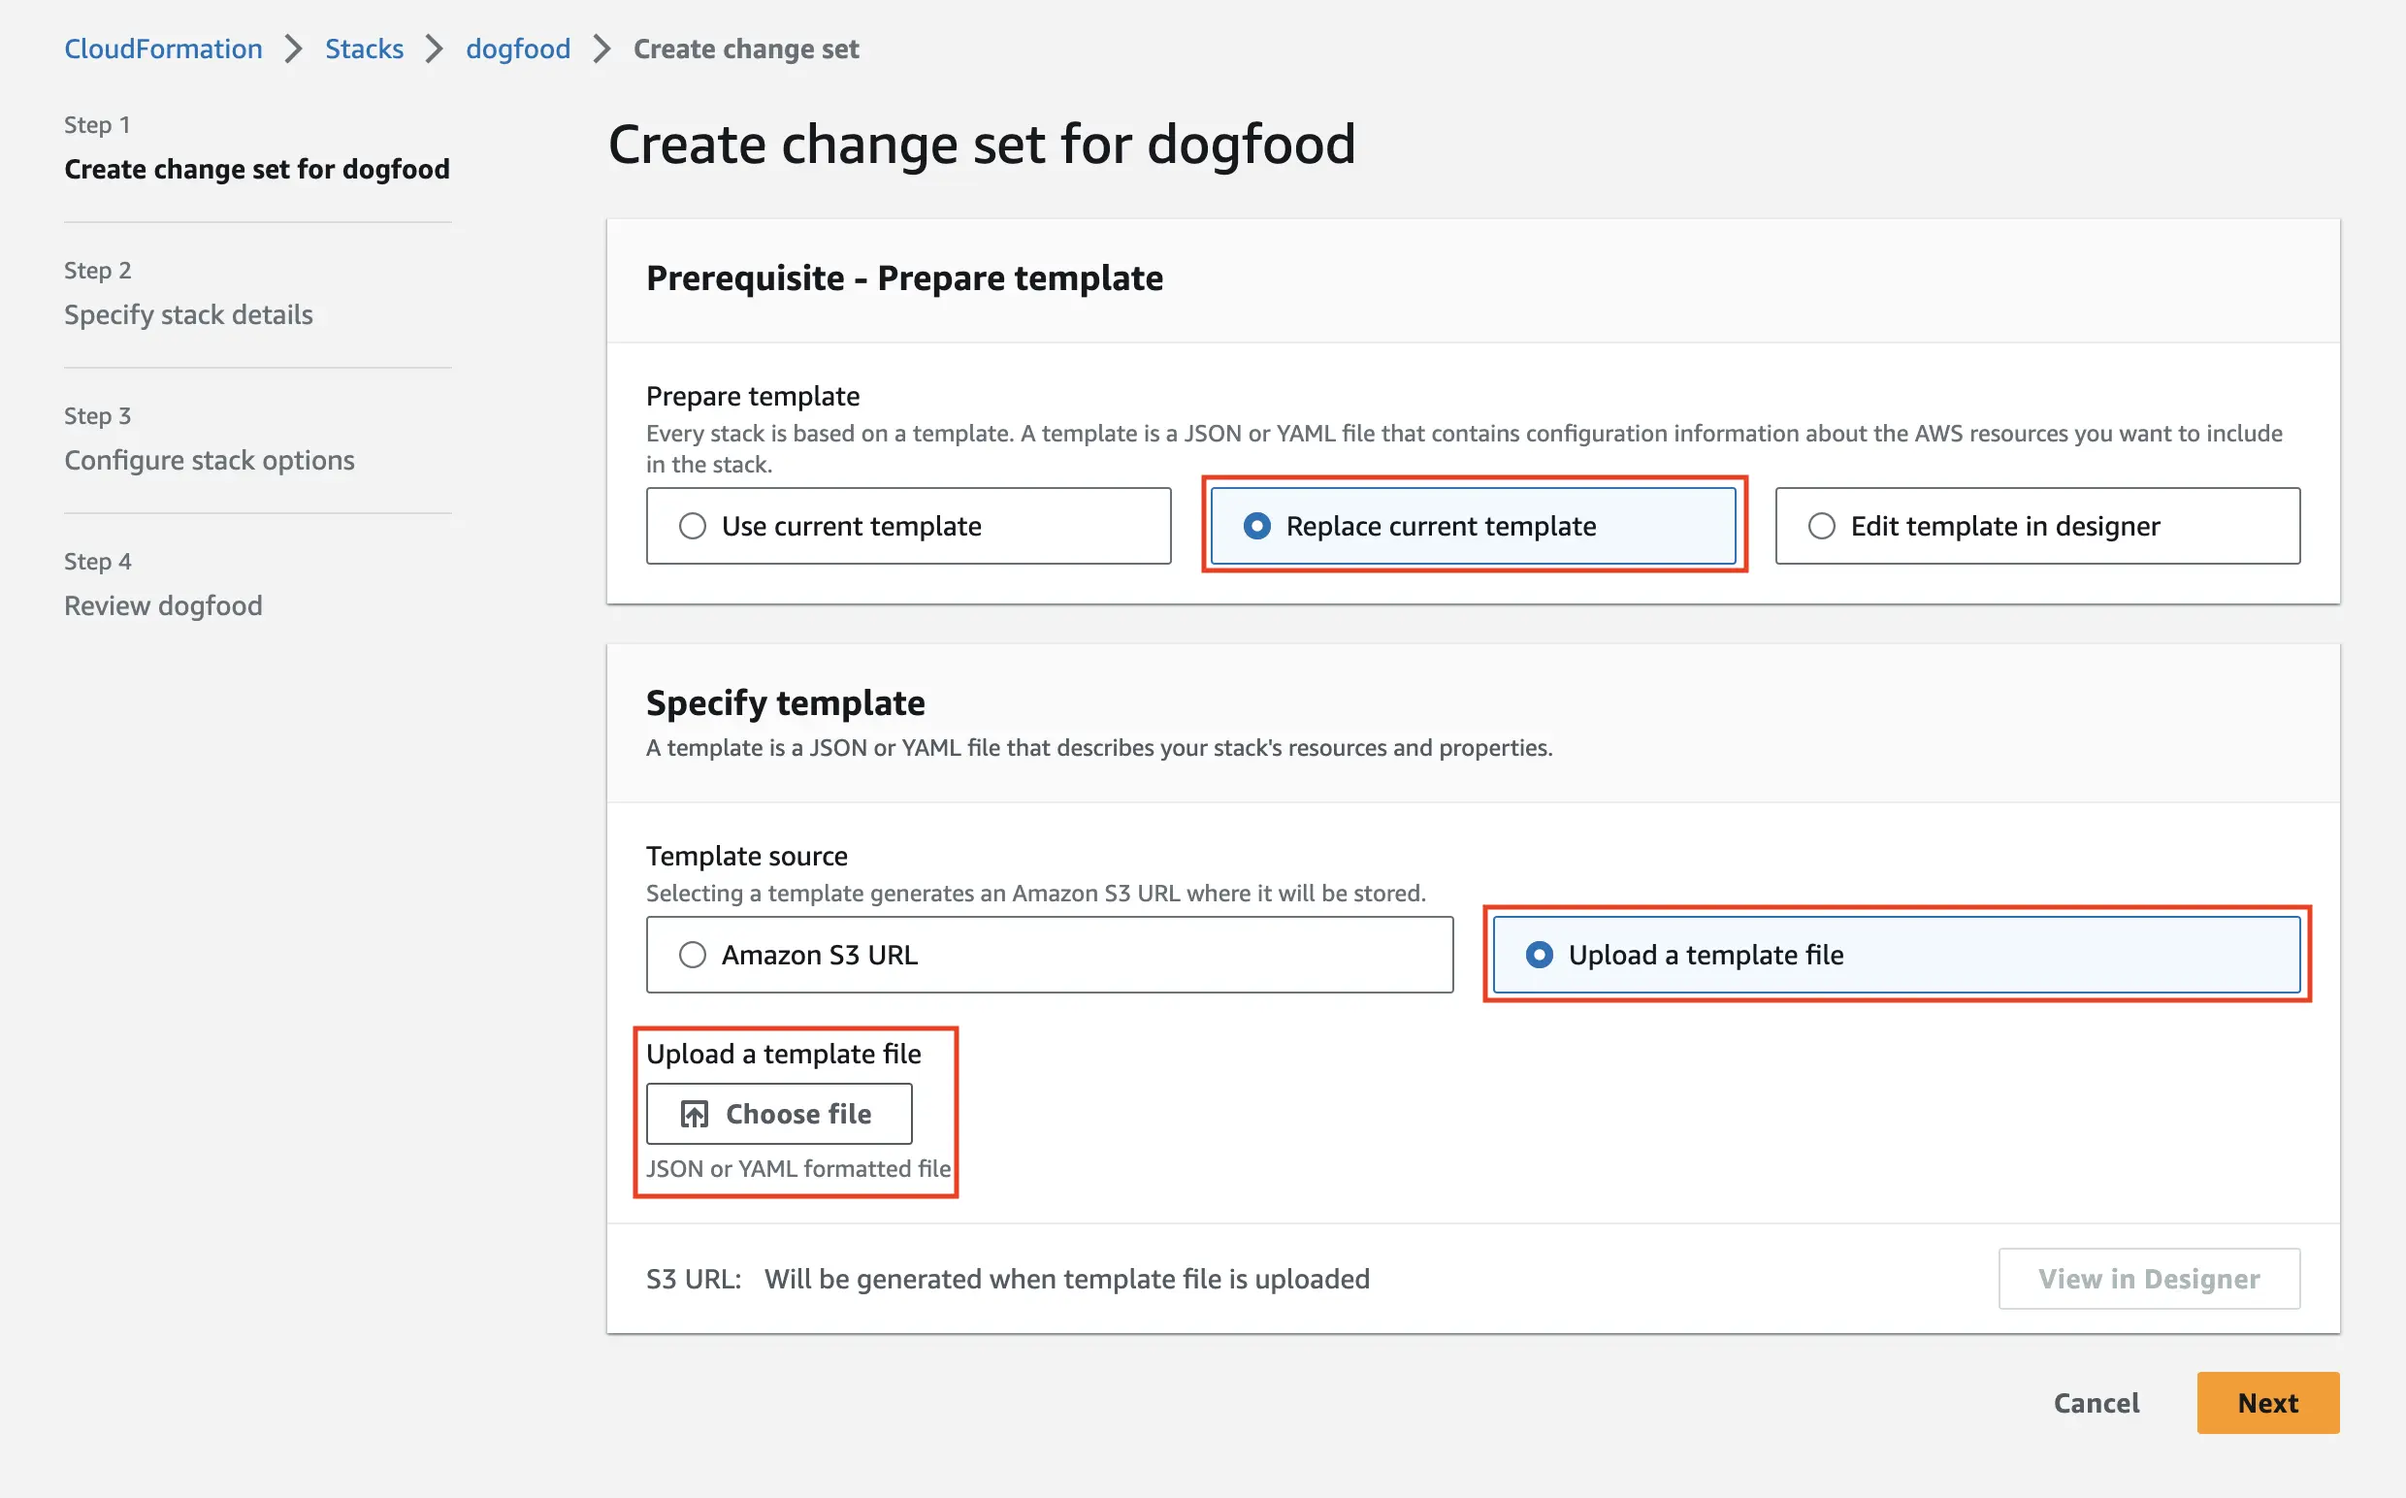
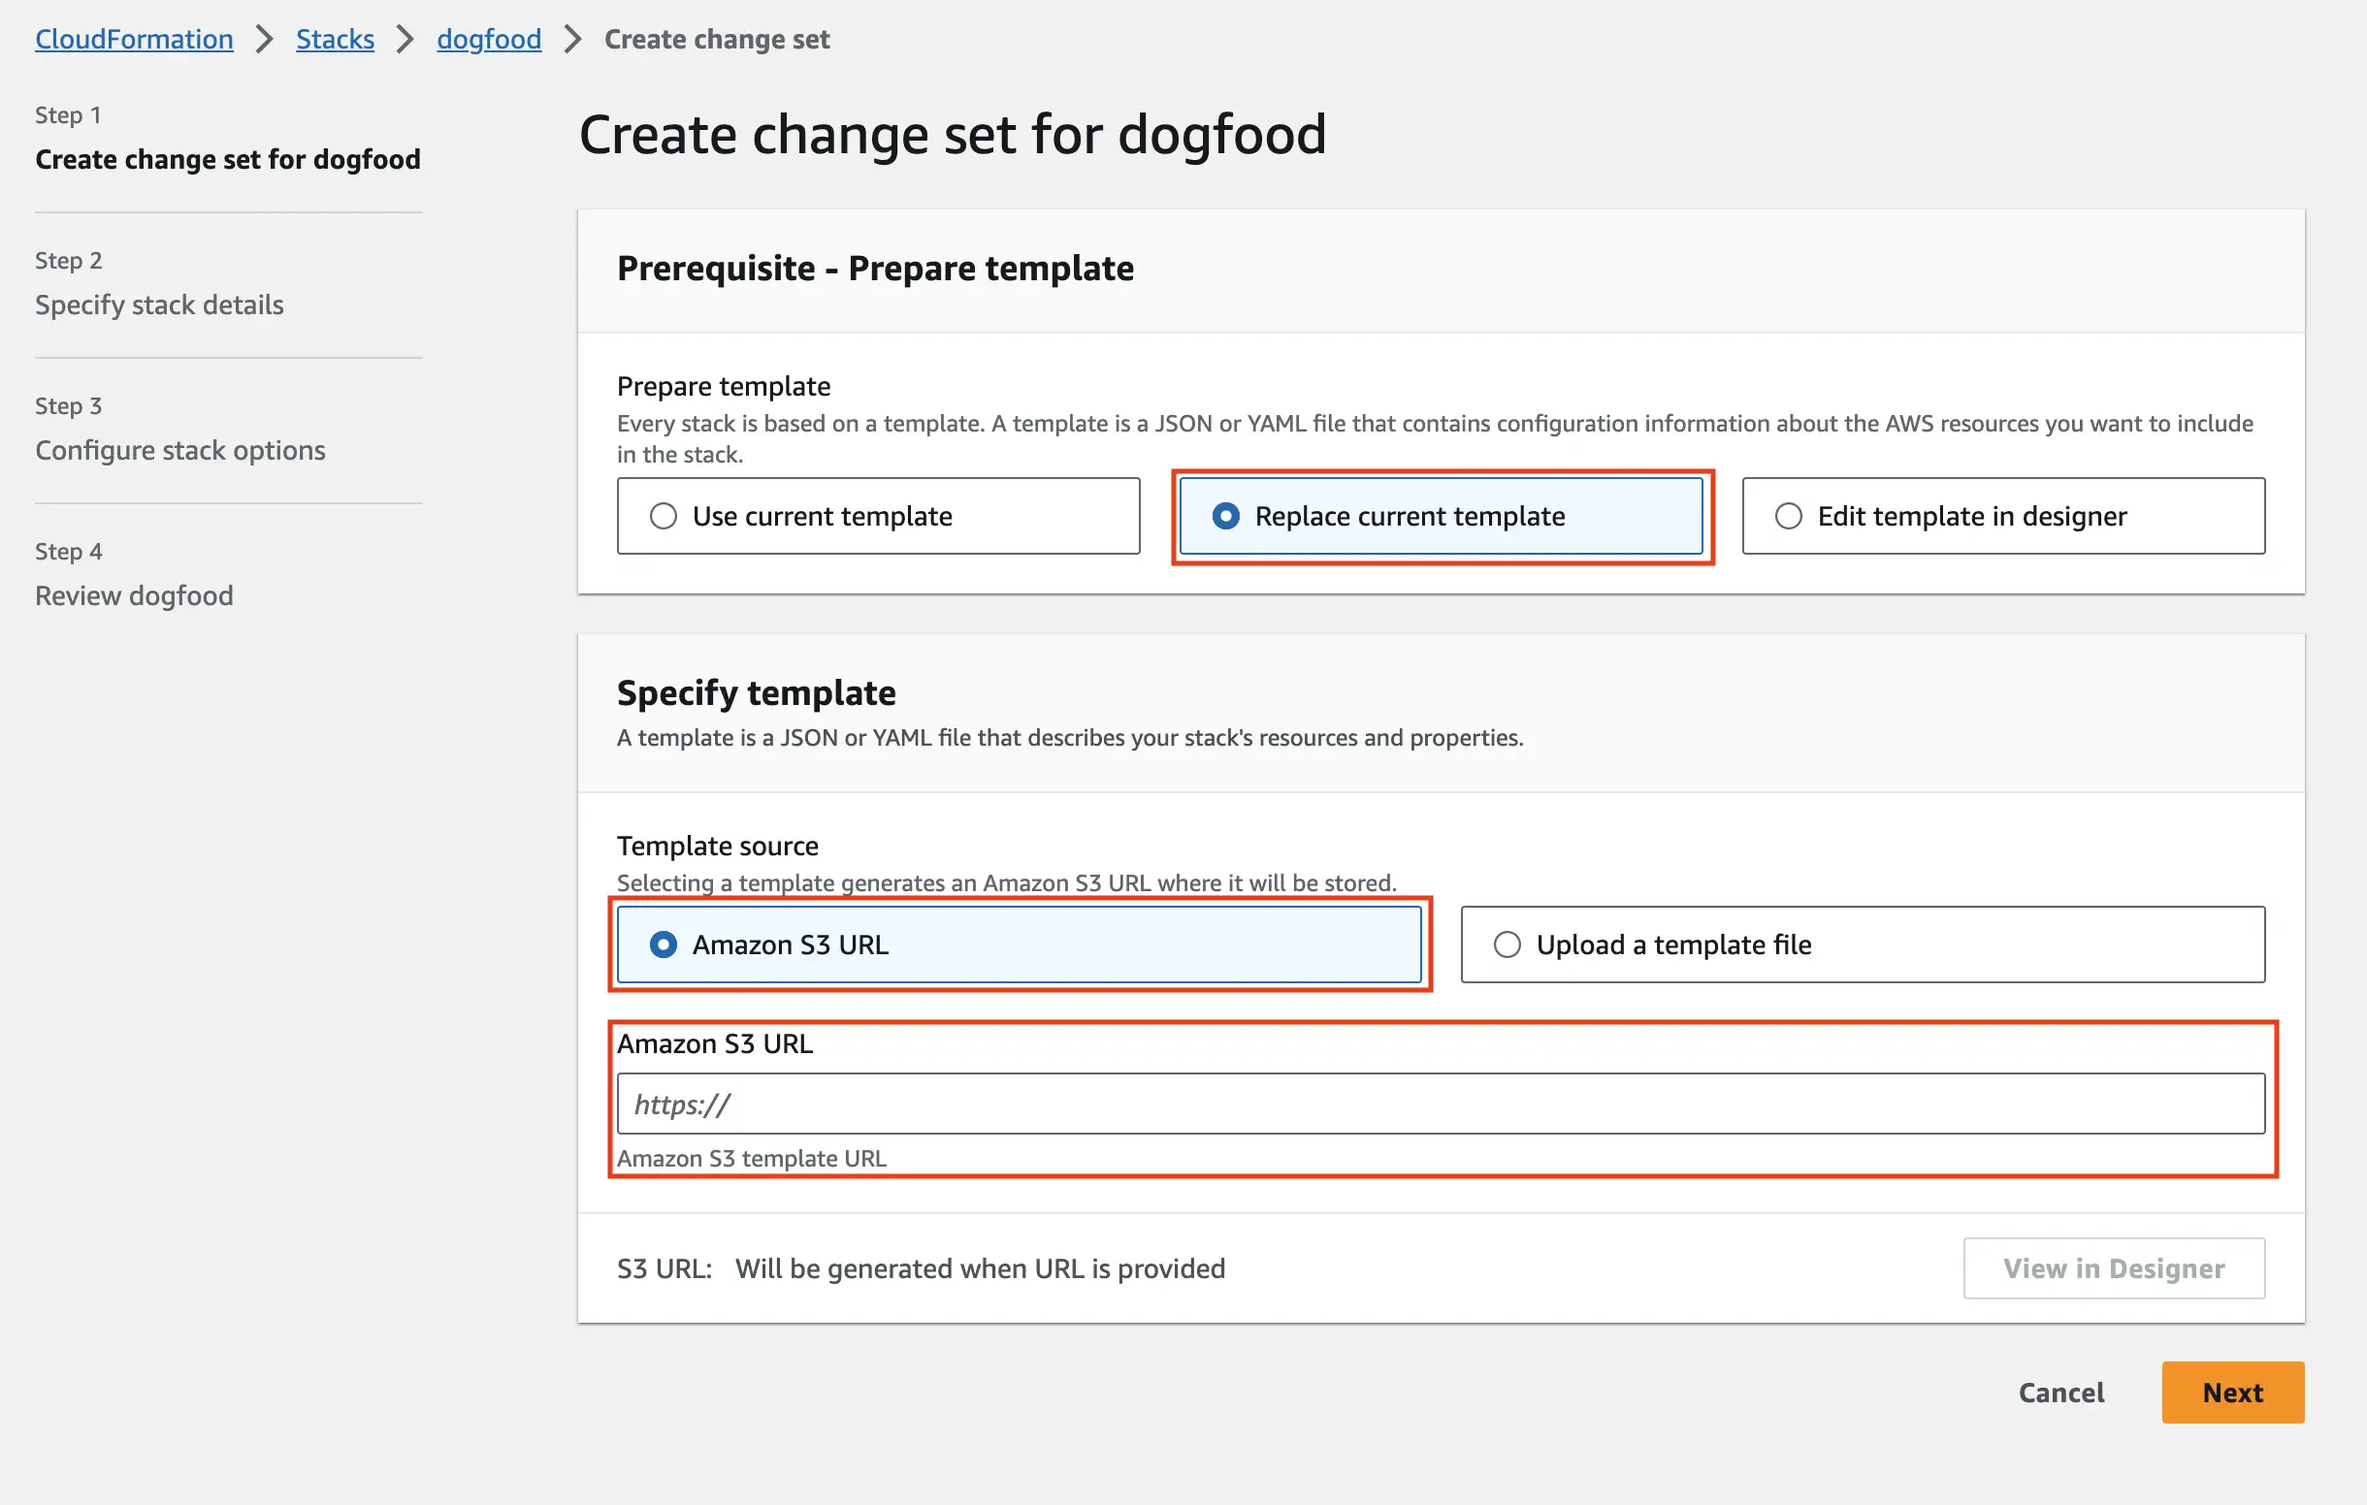
Change Dedicated infra update instructions to reference s3 url (#3981)
* Change instructions to s3 url

* fix grammar

diff --git a/src/content/docs/gitpod-dedicated/guides/updating-gitpod-dedicated-infrastructure.md b/src/content/docs/gitpod-dedicated/guides/updating-gitpod-dedicated-infrastructure.md
@@ -12,9 +12,9 @@ See [Deployment and Updates](/docs/gitpod-dedicated/background/deployment-update
 
 ## Gitpod Dedicated Infrastructure Update Process
 
-1. Receive the updated CloudFormation templates from your Gitpod Account Manager. Note that you may receive either one
+1. Receive the updated CloudFormation templates from your Gitpod Account Manager in the form of S3 URLs. Note that you may receive either one
    or two templates depending on the updates required.
-2. If you receive two templates, apply them in this order:
+2. If you receive two S3 URLs for two separate CloudFormation templates, apply them in this order:
     - **First**, update the stack for the infrastructure creation role (`gitpod-role`).
         - Important: When updating this stack, **do not select any role** under permissions.
     - **Then**, update the stack for the Gitpod Infrastructure.
@@ -23,7 +23,7 @@ See [Deployment and Updates](/docs/gitpod-dedicated/background/deployment-update
 3. If you only receive one template, follow the relevant instructions as described below.
 
 Consult the [Infrastructure Update Changelog](/docs/gitpod-dedicated/reference/infrastructure-update-changelog) or your
-Gitpod Account Manager to determine which stacks need updates and the number of templates you should apply.
+Gitpod Account Manager to determine which stacks need updates and the impact of the update in terms of downtime.
 
 ## Detailed Steps
 
@@ -31,13 +31,13 @@ Gitpod Account Manager to determine which stacks need updates and the number of 
 
 1. Go to the AWS CloudFormation page and select the stack for the infrastructure creation role.
 2. Choose "Create change set for current stack" in the stack actions.
-3. Select "Replace current template" and upload the updated CloudFormation template for the infrastructure creation
-   role.
+3. Select "Replace current template", select Amazon S3 URL as the template source then paste the S3 url for the `gitpod-role` template into the field.
 4. Follow the prompts in the AWS console UI.
-5. Under permissions, **do not** select any role.
-6. Acknowledge that IAM resources may be created and press "Submit".
-7. Once a change set is published, verify the changes.
-8. Execute the change set. Choose "Roll back all stack resources" for behavior on provisioning failure. Wait for the
+    > ❗ Under permissions **do not select any role**:
+    > ![Update Permissions](/images/docs/gitpod-dedicated/guides/updating-gitpod-dedicated-infrastructure/permission-update-role-template.webp)
+5. Acknowledge that IAM resources may be created and press "Submit".
+6. Once a change set is published, verify the changes.
+7. Execute the change set. Choose "Roll back all stack resources" for behavior on provisioning failure. Wait for the
    update to complete, and the status will change to `UPDATE_COMPLETE`.
 
 ### 2. Update Gitpod Infrastructure
@@ -68,8 +68,7 @@ Gitpod Account Manager to determine which stacks need updates and the number of 
      </div>
      </details>
 
-3. Select "Replace current template" and upload the updated CloudFormation template for Gitpod Infrastructure.
-
+3. Select "Replace current template", select Amazon S3 URL as the template source then paste the S3 url for the `gitpod-role` template into the field.
      <details>
 
      <summary class="text-body mt-3 text-p-medium ml-6"> Screenshot </summary>
@@ -83,10 +82,10 @@ Gitpod Account Manager to determine which stacks need updates and the number of 
 
 4. Follow along in the process as described in the AWS console UI
 
-> ❗ Under permissions ensure you select `GitpodSetupAndInitialEKSUserAdmin` as the stack execution role. This role was
+> ❗ Under permissions ensure you select **`GitpodSetupAndInitialEKSUserAdmin`** as the stack execution role. This role was
 > created by applying a CloudFormation template supplied by Gitpod in the initial installation process.
 > See [Getting Started](/docs/gitpod-dedicated/guides/getting-started) for more information.
-> ![Update Permissions](/images/docs/gitpod-dedicated/guides/updating-gitpod-dedicated-infrastructure/permissions-update.webp)
+> ![Update Permissions](/images/docs/gitpod-dedicated/guides/updating-gitpod-dedicated-infrastructure/permissions-update-gitpod-template.webp)
 
 6.  Acknowledge that IAM resources may be created and press "Submit".
 
